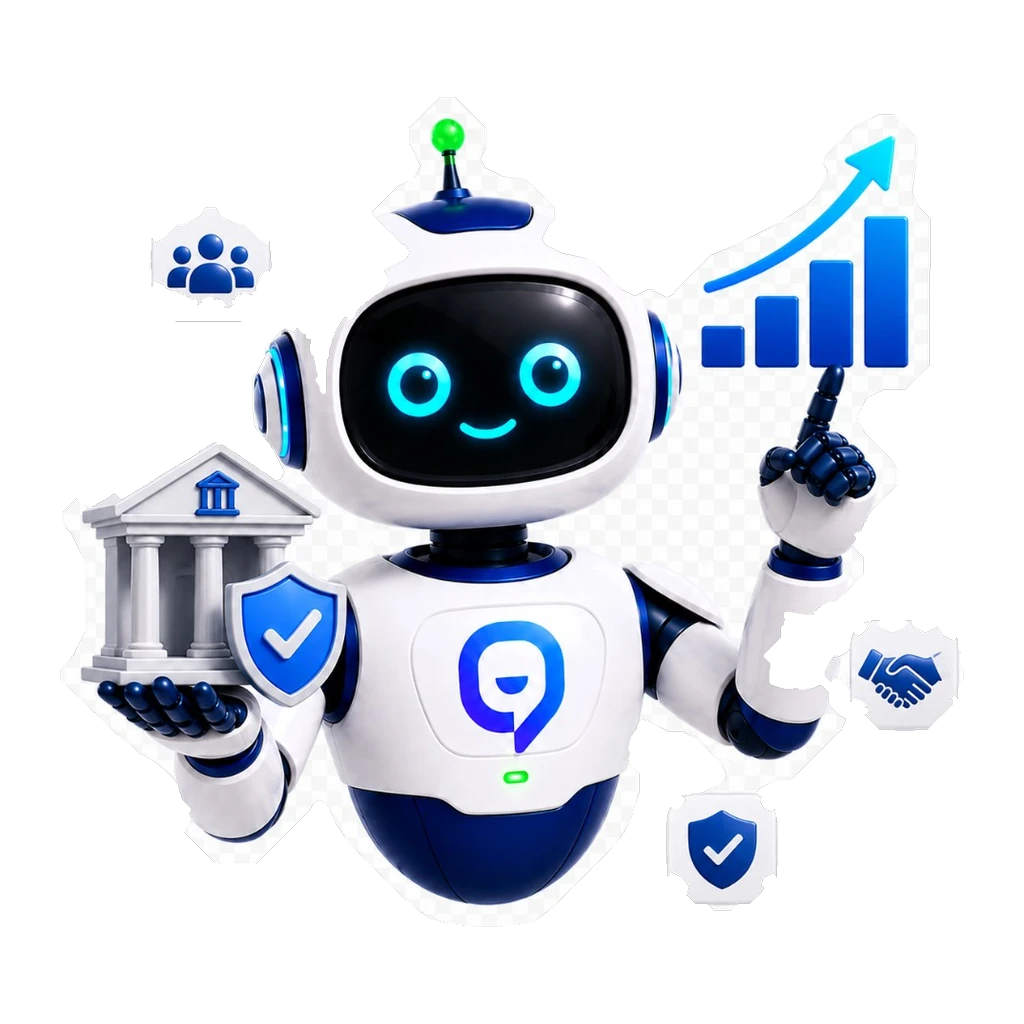
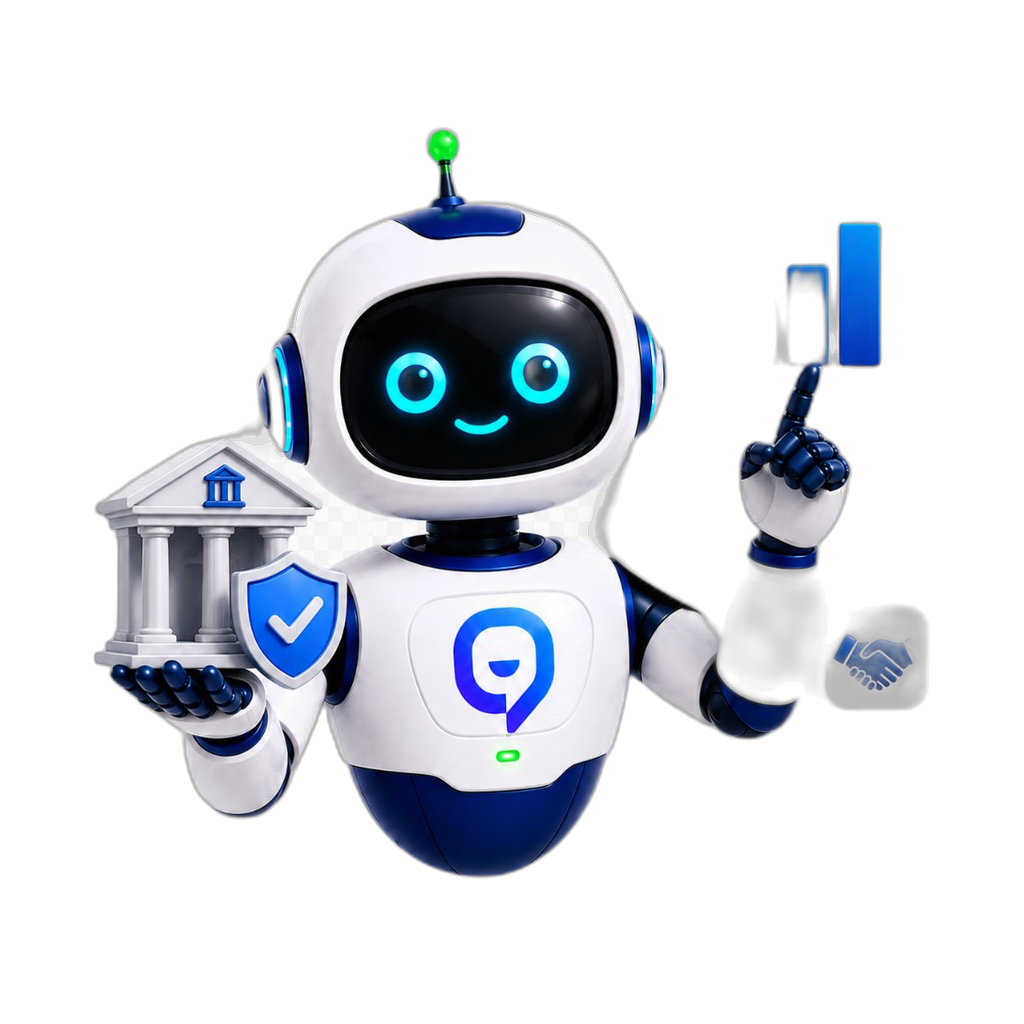
fix(lab): trim calc section, remove numeracion CTA and fix fintech hero
Drop the standalone numeracion button above Bolsas SMS, hide the 200-SMS chip
on the lab calculator, narrow the calc panel, and reprocess the fintech hero
with the agent poses pipeline and showcase markup.

Changed region(s): [[0.0625, 0.0938, 0.9375, 0.9062], [0.6562, 0.7812, 0.75, 0.9062], [0.1562, 0.2188, 0.25, 0.3125]]

diff --git a/landing-agent-lab/casos-de-uso/empresas-fintech-growth/index.html b/landing-agent-lab/casos-de-uso/empresas-fintech-growth/index.html
@@ -33,7 +33,7 @@
       },
     };
   </script>
-  <link rel="stylesheet" href="../../../css/landing-agent-lab.css?v=20260709" />
+  <link rel="stylesheet" href="../../../css/landing-agent-lab.css?v=20260714" />
 </head>
 <body class="font-body antialiased">
   <div class="lab-bg-wrap" aria-hidden="true">
@@ -149,18 +149,21 @@
               </div>
             </header>
             <div class="lab-caso-page-hero__visual" aria-hidden="true">
-              <picture>
-                <source srcset="../../../assets/telvoice-agent-caso-fintech-hero.webp?v=20260712" type="image/webp" />
-                <img
-                  src="../../../assets/telvoice-agent-caso-fintech-hero.png?v=20260712"
-                  alt="Agente Telvoice operando numeración empresarial para fintech, growth y equipos corporativos"
-                  width="512"
-                  height="512"
-                  class="lab-caso-page-hero__img"
-                  decoding="async"
-                  loading="eager"
-                />
-              </picture>
+              <figure class="lab-agent-section-showcase lab-caso-page-hero__showcase">
+                <picture>
+                  <source type="image/webp" srcset="../../../assets/telvoice-agent-caso-fintech-hero.webp?v=20260714" />
+                  <img
+                    class="lab-agent-section-showcase__img"
+                    src="../../../assets/telvoice-agent-caso-fintech-hero.png?v=20260714"
+                    alt=""
+                    width="420"
+                    height="420"
+                    loading="eager"
+                    decoding="async"
+                    draggable="false"
+                  />
+                </picture>
+              </figure>
             </div>
           </div>
         </div>

diff --git a/css/landing-agent-lab.css b/css/landing-agent-lab.css
@@ -17,7 +17,7 @@
   --lab-w-page: 1120px;
   --lab-w-hero: 1080px;
   --lab-w-header: 820px;
-  --lab-w-calc: 960px;
+  --lab-w-calc: 820px;
   --lab-w-faq: 720px;
   --lab-w-copy: 38.75rem;   /* ~620px */
   --lab-w-panel: 20rem;     /* 320px — mismo ancho teléfono telvoice.cl */
@@ -4262,6 +4262,25 @@ html.lab-theme body {
   align-items: center;
   order: -1;
   min-width: 0;
+}
+
+.lab-caso-page-hero__showcase {
+  margin: 0 auto;
+  max-width: min(100%, 18rem);
+}
+
+@media (min-width: 768px) {
+  .lab-caso-page-hero__showcase {
+    max-width: 20rem;
+  }
+}
+
+@media (min-width: 1024px) {
+  .lab-caso-page-hero__showcase {
+    max-width: 22rem;
+    margin-left: auto;
+    margin-right: 0;
+  }
 }
 
 @media (min-width: 1024px) {

diff --git a/landing-agent-lab/index.html b/landing-agent-lab/index.html
@@ -36,7 +36,7 @@
       },
     };
   </script>
-  <link rel="stylesheet" href="../css/landing-agent-lab.css?v=20260713" />
+  <link rel="stylesheet" href="../css/landing-agent-lab.css?v=20260714" />
 </head>
 <body class="font-body antialiased">
   <div class="lab-bg-wrap" aria-hidden="true">
@@ -714,15 +714,6 @@
         </div>
       </section>
 
-      <!-- Numeración: CTA dedicado -->
-      <section class="lab-section lab-section--compact" aria-label="Acceso a numeración Telvoice">
-        <div class="lab-section-inner">
-          <div class="lab-num-band lab-num-band--cta">
-            <a href="#numeracion" class="lab-btn-secondary inline-flex" data-track="click_ver_numeracion_cta">Ver números reales Telvoice</a>
-          </div>
-        </div>
-      </section>
-
       <!-- 7. Precios / bolsas SMS -->
       <section id="calculadora" class="lab-section section-calc scroll-mt-24" aria-labelledby="calc-titulo" tabindex="-1">
         <div id="precios" class="h-0 w-0 overflow-hidden" aria-hidden="true"></div>
@@ -1030,6 +1021,11 @@
   </div>
 
   <script src="../js/telvoice-config.js"></script>
+  <script>
+    window.TELVOICE_CONFIG = Object.assign({}, window.TELVOICE_CONFIG || {}, {
+      showRetail200PurchaseChip: false,
+    });
+  </script>
   <script src="../js/telvoice-app.js"></script>
   <script>
     (function () {

diff --git a/scripts/clean-agent-caso-fintech.py b/scripts/clean-agent-caso-fintech.py
@@ -1,5 +1,5 @@
 #!/usr/bin/env python3
-"""Clean fintech/growth case hero: checkerboard-safe transparency for white robot."""
+"""Clean fintech/growth case hero using the same pipeline as agent poses."""
 import importlib.util
 import sys
 from pathlib import Path
@@ -7,35 +7,36 @@ from pathlib import Path
 ROOT = Path(__file__).resolve().parents[1]
 sys.path.insert(0, str(ROOT / ".pydeps"))
 
-import numpy as np
 from PIL import Image
+from rembg import remove
 
-_ia_spec = importlib.util.spec_from_file_location(
-    "clean_agent_caso_ia", ROOT / "scripts/clean-agent-caso-ia.py"
+_poses_spec = importlib.util.spec_from_file_location(
+    "clean_agent_poses", ROOT / "scripts/clean-agent-poses.py"
 )
-_ia = importlib.util.module_from_spec(_ia_spec)
-_ia_spec.loader.exec_module(_ia)
+_poses = importlib.util.module_from_spec(_poses_spec)
+_poses_spec.loader.exec_module(_poses)
 
-SRC = ROOT / "assets/telvoice-agent-caso-fintech-source.png"
+CURSOR_ASSETS = Path("/Users/victor/.cursor/projects/Users-victor-TELVOICE-CHILE/assets")
+SRC_NAME = "ChatGPT_Image_6_jun_2026__07_51_39_p.m.__5_-a8b3ae9a-d5ee-4d32-a32e-8d81ae8c0a09.png"
 OUT_PNG = ROOT / "assets/telvoice-agent-caso-fintech-hero.png"
 OUT_WEBP = ROOT / "assets/telvoice-agent-caso-fintech-hero.webp"
 
 
-def clean_caso_fintech_hero(src_path: Path = SRC) -> Image.Image:
-    src = np.array(Image.open(src_path).convert("RGBA"))
-    rgb = src[:, :, :3].astype(np.int16)
-    spread = np.max(rgb, axis=2) - np.min(rgb, axis=2)
-    avg = rgb.mean(axis=2)
-    fg = _ia.build_foreground_mask(spread, avg, src)
-    out = _ia.apply_alpha(src, fg)
-    return _ia.normalize_canvas(Image.fromarray(out), size=_ia.CANVAS)
+def clean_caso_fintech_hero() -> Image.Image:
+    src = CURSOR_ASSETS / SRC_NAME
+    if not src.exists():
+        src = ROOT / "assets/telvoice-agent-caso-fintech-source.png"
+    cut = remove(Image.open(src))
+    cut = _poses.keep_largest_component(cut)
+    cut = _poses.defringe(cut)
+    return _poses.normalize_canvas(cut)
 
 
 def main() -> None:
     clean = clean_caso_fintech_hero()
     OUT_PNG.parent.mkdir(parents=True, exist_ok=True)
     clean.save(OUT_PNG, "PNG", optimize=True)
-    clean.save(OUT_WEBP, "WEBP", quality=90, method=6)
+    clean.save(OUT_WEBP, "WEBP", lossless=True, quality=95, method=6)
     print(f"png: {OUT_PNG} ({OUT_PNG.stat().st_size} bytes)")
     print(f"webp: {OUT_WEBP} ({OUT_WEBP.stat().st_size} bytes)")
 